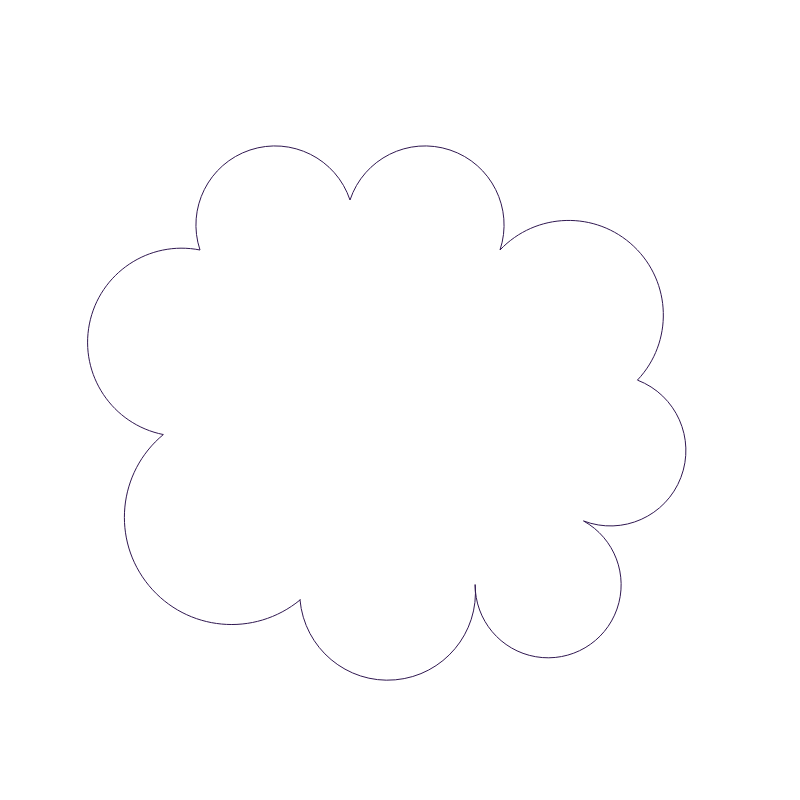
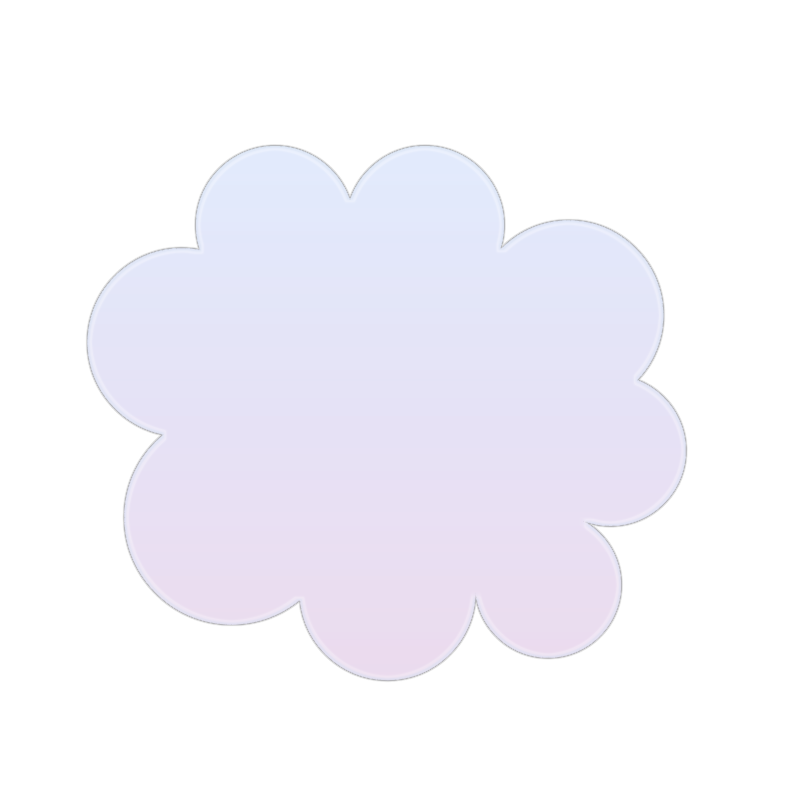
feat(assets): update cloud artwork images for enhanced visual appeal feat(audio): limit sound playback timing for improved user experience feat(listeners): conditionally render guilds tab on data listener setup feat(boons): adjust Compassion Token description and functionality for monthly use feat(f

diff --git a/features/fortunesWheel.js b/features/fortunesWheel.js
@@ -445,8 +445,9 @@ function wrapText(ctx, text, maxWidth) {
  * @param {Array} segments - 20 segments
  * @param {number} rotationAngle - Current rotation in radians
  * @param {object} guildDef - Guild definition for center emblem colors
+ * @param {number|null} highlightIndex - Optional segment index to glow
  */
-export function drawWheel(canvas, segments, rotationAngle, guildDef) {
+export function drawWheel(canvas, segments, rotationAngle, guildDef, highlightIndex = null) {
     const ctx = canvas.getContext('2d');
     const size = canvas.width;
     const center = size / 2;
@@ -560,6 +561,29 @@ export function drawWheel(canvas, segments, rotationAngle, guildDef) {
             ctx.fillText(lines[j], textStartRadius, startY + (j * lineHeight));
         }
 
+        ctx.restore();
+    }
+
+    if (Number.isInteger(highlightIndex) && highlightIndex >= 0 && highlightIndex < segCount) {
+        const seg = segments[highlightIndex];
+        const rarityConf = WHEEL_RARITY_CONFIG[seg?.rarity] || WHEEL_RARITY_CONFIG.common;
+        const startAngle = highlightIndex * segAngle;
+        const endAngle = startAngle + segAngle;
+
+        ctx.save();
+        ctx.beginPath();
+        ctx.moveTo(0, 0);
+        ctx.arc(0, 0, radius, startAngle, endAngle);
+        ctx.closePath();
+        ctx.fillStyle = 'rgba(255, 255, 255, 0.14)';
+        ctx.shadowColor = rarityConf.glow || 'rgba(251, 191, 36, 0.55)';
+        ctx.shadowBlur = Math.max(18, size / 18);
+        ctx.fill();
+
+        ctx.shadowBlur = 0;
+        ctx.strokeStyle = 'rgba(255, 255, 255, 0.92)';
+        ctx.lineWidth = Math.max(10, size / 55);
+        ctx.stroke();
         ctx.restore();
     }
 
@@ -772,7 +796,8 @@ export function animateWheelSpin(canvas, segments, winnerIndex, guildDef, onTick
 
         // Add extra full spins for drama (8-12 full rotations for a high energy spin)
         const extraSpins = (8 + Math.floor(Math.random() * 4)) * TAU;
-        const totalRotation = extraSpins + (TAU - (targetAngle % TAU) + TAU) % TAU;
+        const normalizedTarget = ((targetAngle % TAU) + TAU) % TAU;
+        const totalRotation = extraSpins + normalizedTarget;
 
         const duration = 6500 + Math.random() * 1500; // 6.5-8s for maximum suspense
         const startTime = performance.now();
@@ -817,9 +842,8 @@ export function animateWheelSpin(canvas, segments, winnerIndex, guildDef, onTick
             if (t < 1) {
                 requestAnimationFrame(frame);
             } else {
-                // Final draw at exact target with a flash
-                drawWheel(canvas, segments, totalRotation, guildDef);
-                setTimeout(resolve, 800); // Dramatic pause before result
+                drawWheel(canvas, segments, totalRotation, guildDef, winnerIndex);
+                setTimeout(() => resolve({ rotationAngle: totalRotation }), 800);
             }
         }
 
@@ -840,6 +864,8 @@ let _wheelState = {
     segments: [],         // Current guild's 20 segments
     results: [],          // All 4 guild results
     phase: 'idle',        // 'idle' | 'ready' | 'spinning' | 'revealed' | 'summary' | 'done'
+    winnerIndex: null,
+    rotationAngle: 0,
 };
 let _wheelResizeWired = false;
 
@@ -875,7 +901,7 @@ function _wireWheelResize() {
     if (_wheelResizeWired) return;
     _wheelResizeWired = true;
     window.addEventListener('resize', () => {
-        if (_wheelState.phase !== 'ready' && _wheelState.phase !== 'spinning') return;
+        if (_wheelState.phase !== 'ready' && _wheelState.phase !== 'spinning' && _wheelState.phase !== 'revealed') return;
         _sizeAndRenderWheel();
     });
 }
@@ -930,7 +956,7 @@ async function _evaluateAndRender(classId, leagueLevel) {
     _renderAvailability(availability);
 
     if (!availability.allowed) {
-        _wheelState = { active: false, classId: null, leagueLevel: null, guildOrder: [], currentGuildIndex: 0, segments: [], results: [], phase: 'idle' };
+        _wheelState = { active: false, classId: null, leagueLevel: null, guildOrder: [], currentGuildIndex: 0, segments: [], results: [], phase: 'idle', winnerIndex: null, rotationAngle: 0 };
         _renderLockedState(availability);
         return;
     }
@@ -944,6 +970,8 @@ async function _evaluateAndRender(classId, leagueLevel) {
         segments: [],
         results: [],
         phase: 'ready',
+        winnerIndex: null,
+        rotationAngle: 0,
     };
 
     // Generate first guild's segments
@@ -1015,6 +1043,8 @@ function _renderLockedState(title, message, emoji) {
 export async function triggerSpin() {
     if (_wheelState.phase !== 'ready') return;
     _wheelState.phase = 'spinning';
+    _wheelState.winnerIndex = null;
+    _wheelState.rotationAngle = 0;
 
     const canvas = document.getElementById('fortunes-wheel-canvas');
     const guildId = _wheelState.guildOrder[_wheelState.currentGuildIndex];
@@ -1027,10 +1057,12 @@ export async function triggerSpin() {
     _updateSpinButton(true, 'Spinning...');
 
     // Animate
-    await animateWheelSpin(canvas, segments, winnerIndex, guildDef, () => {
+    const anim = await animateWheelSpin(canvas, segments, winnerIndex, guildDef, () => {
         try { playSound('click'); } catch (_) {}
     });
     if (stageFrame) stageFrame.classList.remove('is-spinning');
+    _wheelState.winnerIndex = winnerIndex;
+    _wheelState.rotationAngle = anim?.rotationAngle || 0;
 
     // Reveal sound based on rarity
     const winningSeg = segments[winnerIndex];
@@ -1061,6 +1093,8 @@ export function advanceWheel() {
         _wheelState.currentGuildIndex++;
         _wheelState.segments = generateWheelSegments(_wheelState.leagueLevel);
         _wheelState.phase = 'ready';
+        _wheelState.winnerIndex = null;
+        _wheelState.rotationAngle = 0;
         _renderWheelPhase();
     } else {
         _wheelState.phase = 'summary';
@@ -1080,7 +1114,7 @@ export async function closeFortunesWheel() {
         }
     }
 
-    _wheelState = { active: false, classId: null, leagueLevel: null, guildOrder: [], currentGuildIndex: 0, segments: [], results: [], phase: 'idle' };
+    _wheelState = { active: false, classId: null, leagueLevel: null, guildOrder: [], currentGuildIndex: 0, segments: [], results: [], phase: 'idle', winnerIndex: null, rotationAngle: 0 };
 
     const modal = document.getElementById('fortunes-wheel-modal');
     if (modal) {
@@ -1143,20 +1177,20 @@ function _sizeAndRenderWheel() {
     const guildId = _wheelState.guildOrder[_wheelState.currentGuildIndex];
     const guildDef = getGuildById(guildId);
 
-    const stageFrame = document.getElementById('fw-stage-frame');
-    const stageRect = stageFrame?.getBoundingClientRect();
-    const parentWidth = canvas.parentElement?.clientWidth || 620;
-    const stageHeight = stageRect?.height || window.innerHeight * 0.62;
-
-    const widthBudget = Math.min(parentWidth, window.innerWidth * 0.5);
-    const heightBudget = Math.max(360, stageHeight - 36);
-    const displaySize = Math.round(Math.max(320, Math.min(640, widthBudget, heightBudget)));
+    const parentEl = canvas.parentElement;
+    const parentWidth = parentEl?.clientWidth || 620;
+    const parentHeight = parentEl?.clientHeight || parentWidth;
+    const available = Math.min(parentWidth, parentHeight);
+    const displaySize = Math.round(Math.min(640, available));
+    if (!displaySize || displaySize < 10) return;
 
     canvas.style.width = `${displaySize}px`;
     canvas.style.height = `${displaySize}px`;
     canvas.width = displaySize;
     canvas.height = displaySize;
-    drawWheel(canvas, _wheelState.segments, 0, guildDef);
+    const rotation = _wheelState.phase === 'revealed' ? (_wheelState.rotationAngle || 0) : 0;
+    const highlightIndex = _wheelState.phase === 'revealed' ? _wheelState.winnerIndex : null;
+    drawWheel(canvas, _wheelState.segments, rotation, guildDef, highlightIndex);
 }
 
 function _updateSpinButton(disabled, label = 'Spin the Wheel', sublabel = 'The relic chooses a fate') {

diff --git a/features/powerUps.js b/features/powerUps.js
@@ -20,7 +20,7 @@ export const LEGENDARY_ARTIFACTS = [
     { id: 'leg_aurum', name: 'Aurum Satchel', price: 32, description: 'Grants 50% off your next Mystic Market purchase this month.', icon: '💰' },
     { id: 'leg_bulwark', name: 'Bulwark Crest', price: 48, description: 'Your guild gains a Glory Shield for 7 days (blocks negative wheel effects).', icon: '🛡' },
     { id: 'leg_quill', name: "Archivist's Quill", price: 62, description: 'Your next Story Weaver class bonus awards you 1 star instead of 0.5.', icon: '✒' },
-    { id: 'leg_compassion', name: 'Compassion Token', price: 55, description: "Your next Hero's Boon costs 0 Gold (one free gift).", icon: '💝' }
+    { id: 'leg_compassion', name: 'Compassion Token', price: 55, description: "Hero's Boon costs 0 Gold for the rest of this month.", icon: '💝' }
 ];
 
 export function isItemUsable(itemName) {
@@ -357,15 +357,15 @@ const POWER_UP_EFFECTS = {
         };
     },
     'Compassion Token': async (student, classData, context) => {
-        context.transaction.update(context.scoreRef, { peerBoonFreeUses: increment(1) });
-        const nextUses = (Number(context.scoreData.peerBoonFreeUses) || 0) + 1;
+        const monthKey = utils.getLocalMonthKey();
+        context.transaction.update(context.scoreRef, { peerBoonFreeMonthKey: monthKey });
         return {
             success: true,
-            scorePatch: { peerBoonFreeUses: nextUses },
+            scorePatch: { peerBoonFreeMonthKey: monthKey },
             feedback: {
                 icon: '💝',
                 title: 'Compassion ready',
-                body: `${student.name} has a free Hero's Boon to give (${nextUses} use${nextUses === 1 ? '' : 's'}).`
+                body: `${student.name} can bestow Hero's Boons for free for the rest of this month.`
             }
         };
     }

diff --git a/db/listeners.js b/db/listeners.js
@@ -601,6 +601,10 @@ export function setupDataListeners(userId, dateString, onInitialDataReady, optio
         // Check weekly reset
         import('../features/guildScoring.js').then(m => m.checkAndPerformWeeklyGloryReset());
         renderStudentLeaderboardTab();
+        const guildsTab = document.getElementById('guilds-tab');
+        if (guildsTab && !guildsTab.classList.contains('hidden')) {
+            import('../ui/tabs/guilds.js').then(m => m.renderGuildsTab());
+        }
     }, (error) => console.error("Error listening to guild_scores:", error)));
 
     // Guild Champions — current month
@@ -625,6 +629,10 @@ export function setupDataListeners(userId, dateString, onInitialDataReady, optio
     state.setUnsubscribeFortuneWheelLog(onSnapshot(wheelLogQuery, (snapshot) => {
         const log = snapshot.docs.map(d => ({ id: d.id, ...d.data() }));
         state.setFortuneWheelLog(log);
+        const guildsTab = document.getElementById('guilds-tab');
+        if (guildsTab && !guildsTab.classList.contains('hidden')) {
+            import('../ui/tabs/guilds.js').then(m => m.renderGuildsTab());
+        }
     }, (error) => console.error("Error listening to fortune_wheel_log:", error)));
 
     subscribeCommunicationThreads({ userId, isSecretary });

diff --git a/features/boons.js b/features/boons.js
@@ -56,14 +56,16 @@ export async function handleBestowBoon(senderId, receiverId) {
             const senderData = senderDoc.data() || {};
             const currentGold = (senderData.gold !== undefined) ? senderData.gold : (senderData.totalStars || 0);
             const freeBoonUses = Number(senderData.peerBoonFreeUses) || 0;
+            const monthKey = utils.getLocalMonthKey();
+            const isMonthFree = senderData.peerBoonFreeMonthKey === monthKey;
 
-            if (freeBoonUses > 0) {
+            if (!isMonthFree && freeBoonUses > 0) {
                 if (freeBoonUses <= 1) {
                     transaction.update(senderScoreRef, { peerBoonFreeUses: deleteField() });
                 } else {
                     transaction.update(senderScoreRef, { peerBoonFreeUses: freeBoonUses - 1 });
                 }
-            } else {
+            } else if (!isMonthFree) {
                 if (currentGold < 15) throw "Not enough Gold!";
                 transaction.update(senderScoreRef, { gold: increment(-15) });
             }

diff --git a/styles/fortunes_wheel.css b/styles/fortunes_wheel.css
@@ -1012,6 +1012,20 @@
     }
 }
 
+@media (max-height: 820px) {
+    .fw-content-unified {
+        overflow-y: auto;
+    }
+
+    .fw-controls-section {
+        max-height: none;
+    }
+
+    .fw-main-layout {
+        align-items: stretch;
+    }
+}
+
 @media (prefers-reduced-motion: reduce) {
     .fw-card,
     .fw-header-floating,

diff --git a/audio.js b/audio.js
@@ -114,6 +114,8 @@ export function playSound(sound) {
     let playTime = Math.max(now + 0.05, lastSoundTime + 0.1);
     
     // 3. Update tracker
+    const maxLead = sound === 'click' ? 0.12 : 0.35;
+    playTime = Math.min(playTime, now + maxLead);
     lastSoundTime = playTime;
 
     try {
